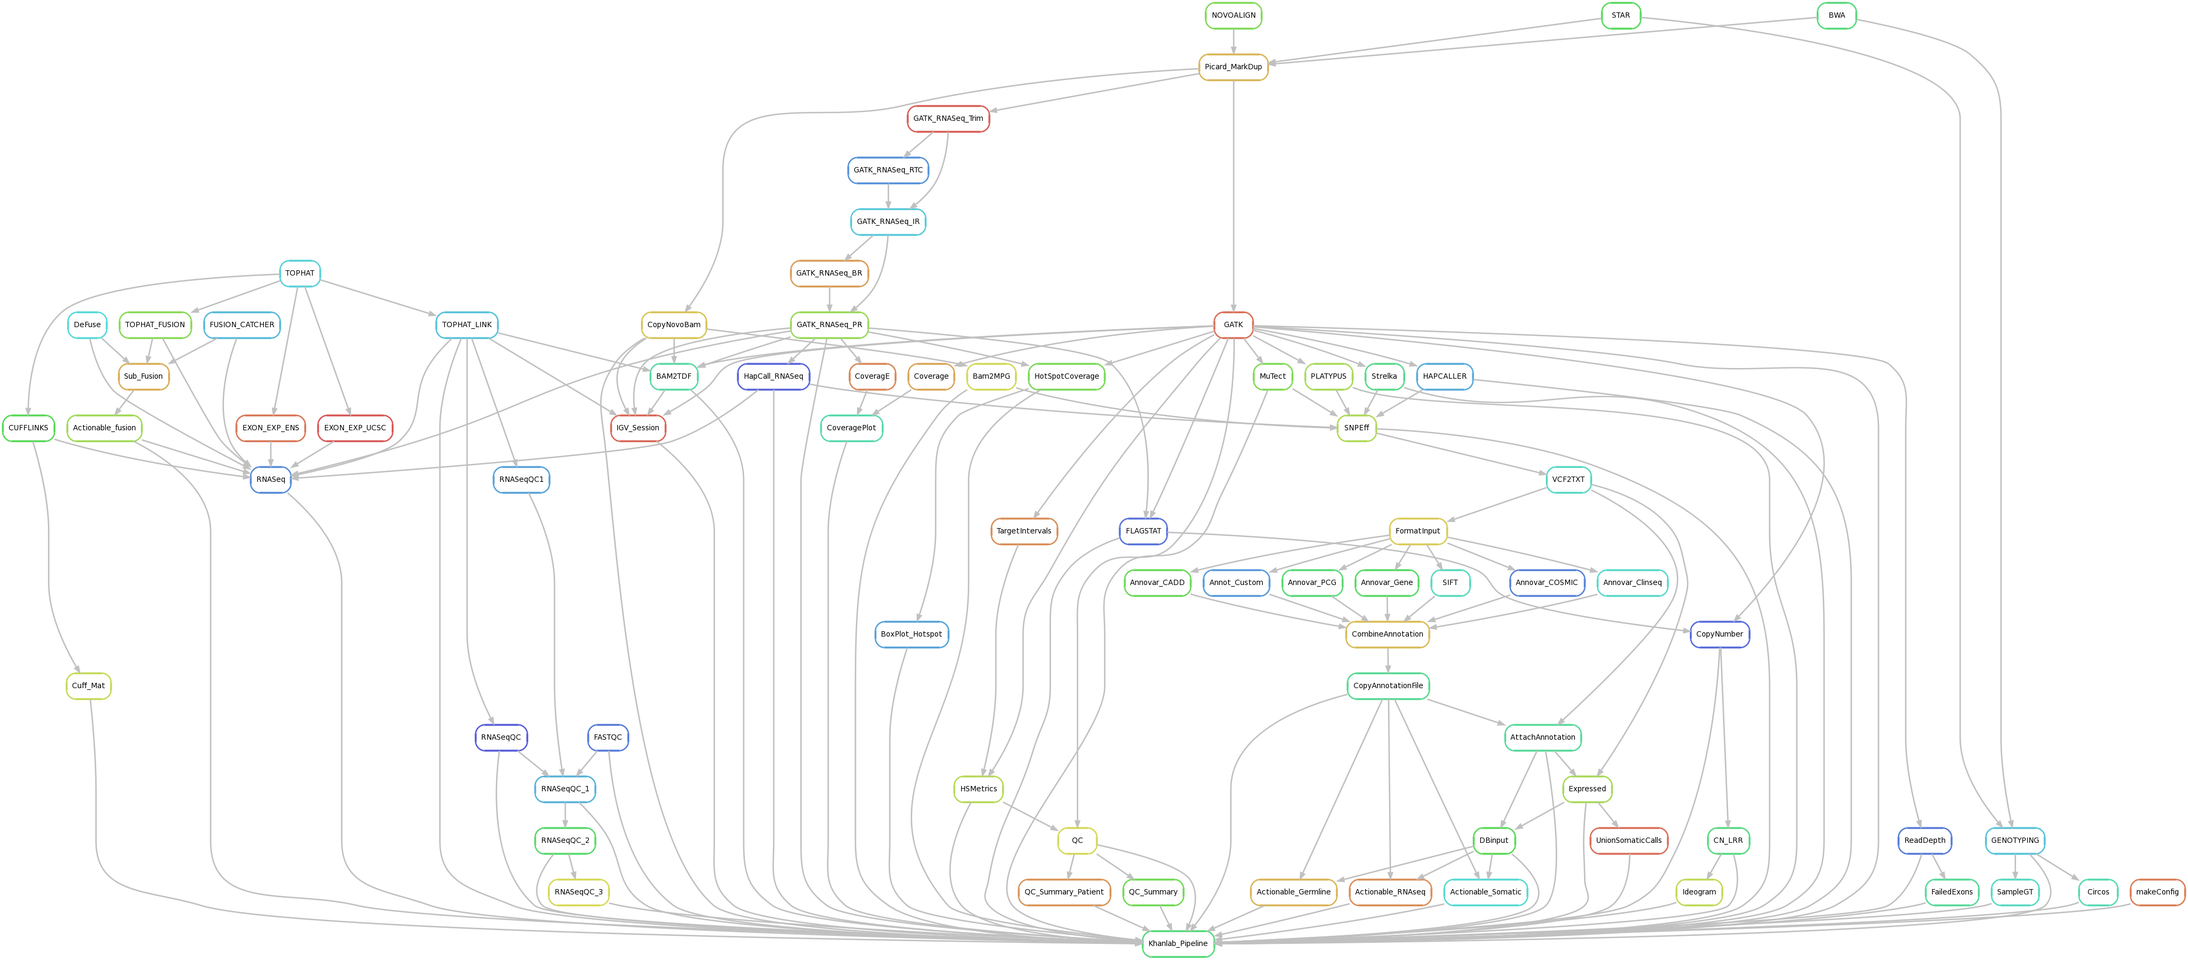
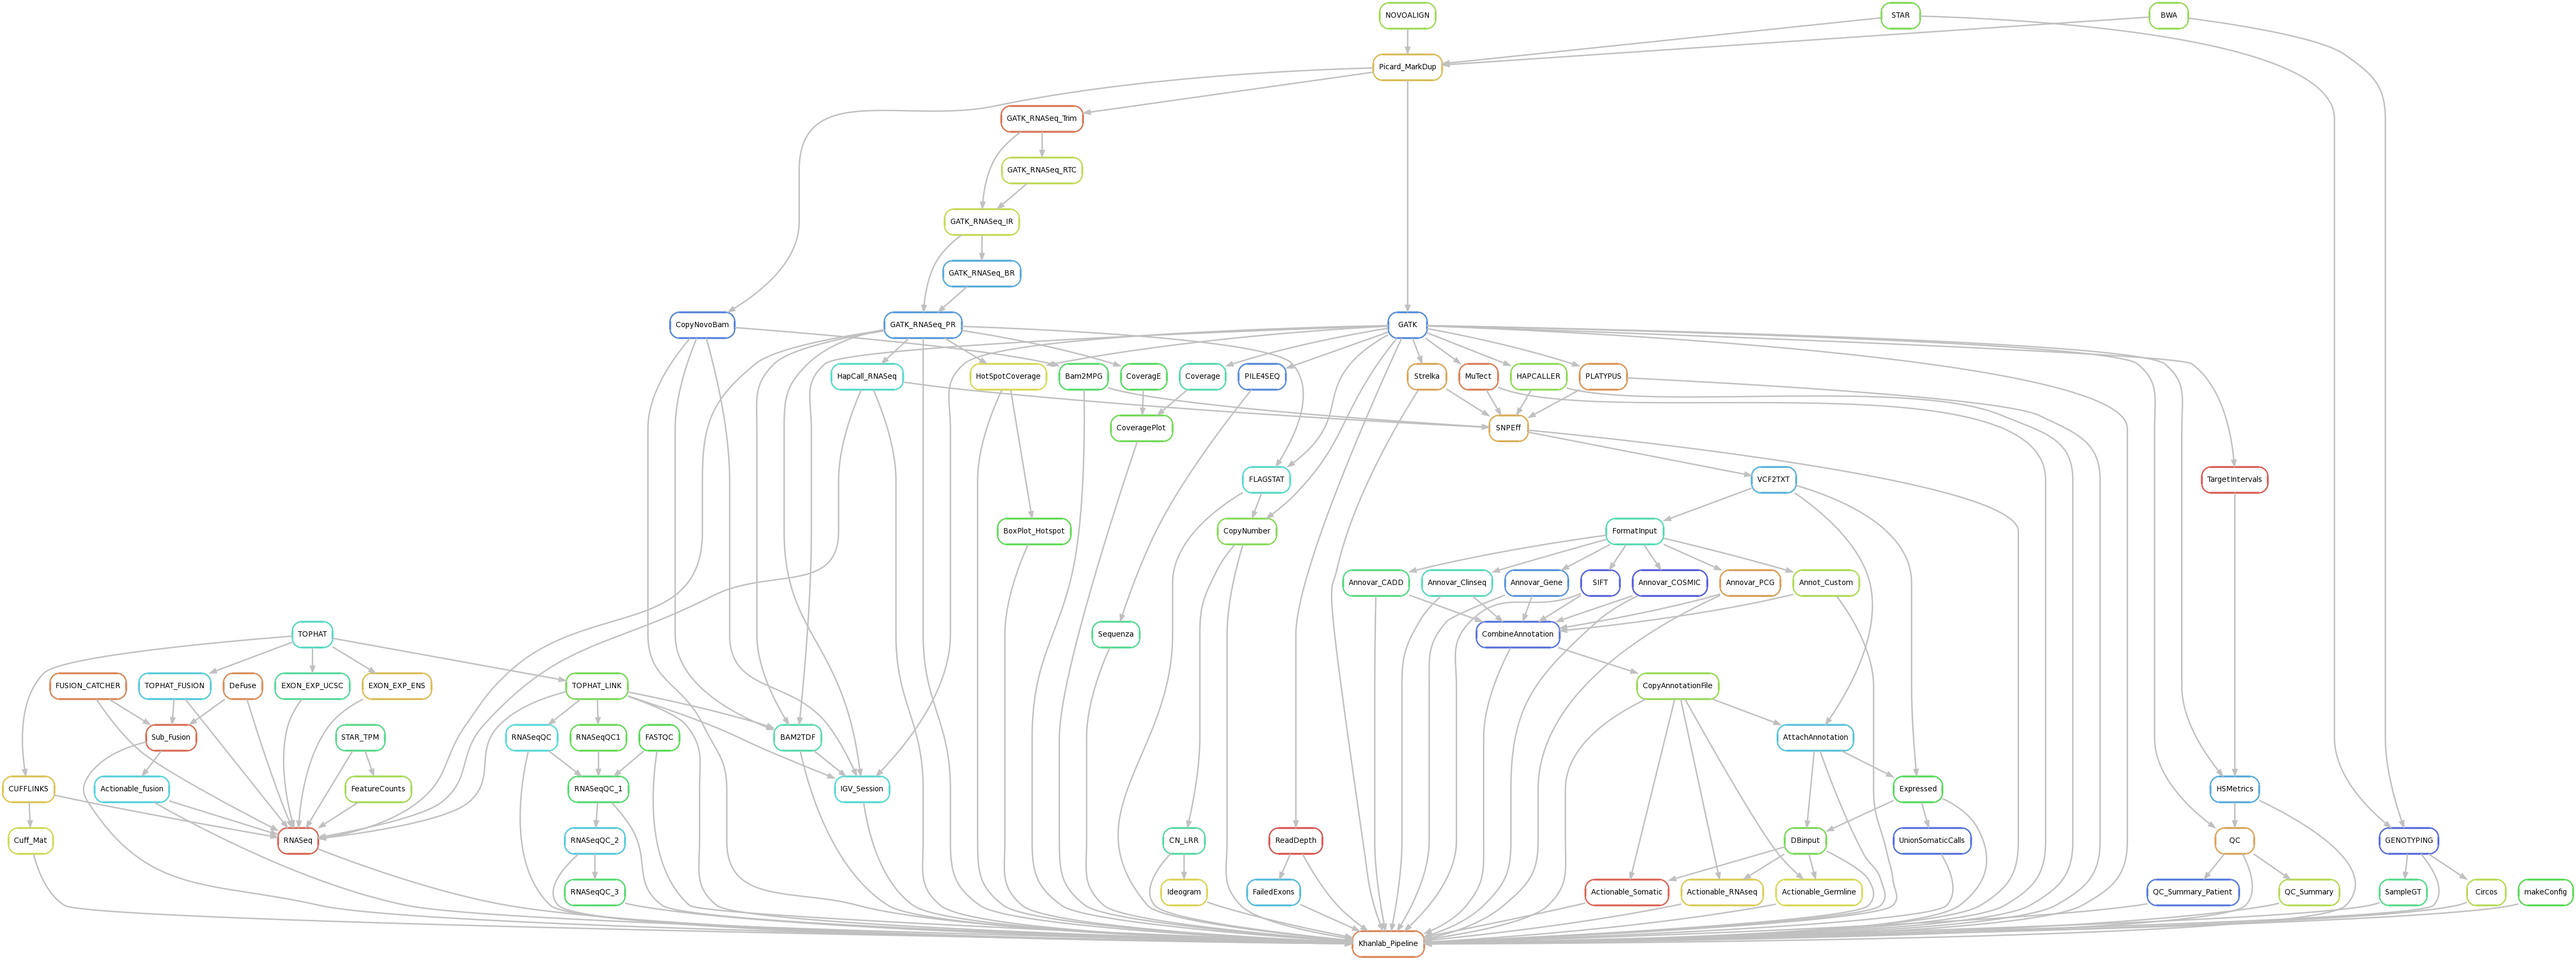
Updated README and Rulegraph to latest

diff --git a/README.md b/README.md
@@ -15,6 +15,17 @@ This pipeline is available on NIH biowulf cluster, contact me if you would like 
 [gnu parallel](http://www.gnu.org/software/parallel/)  
 SLURM or PBS for resource management  
 Bioinformatics Tools Listed in [config files](config/config_common_biowulf.json)  
+### Following R Packages
+- [OmicCircos](https://www.bioconductor.org/packages/release/bioc/html/OmicCircos.html)
+- [RColorBrewer](https://cran.r-project.org/web/packages/RColorBrewer/index.html)
+- [Rsubread](https://bioconductor.org/packages/release/bioc/html/Rsubread.html)
+- [edgeR](http://bioconductor.org/packages/release/bioc/html/edgeR.html)
+- [limma](http://bioconductor.org/packages/release/bioc/html/limma.html)
+- [optparse](https://cran.r-project.org/web/packages/optparse/index.html)
+- [pracma](https://cran.r-project.org/web/packages/pracma/index.html)
+- [sequenza](https://cran.r-project.org/web/packages/sequenza/index.html)
+- [stats](https://stat.ethz.ch/R-manual/R-devel/library/stats/html/00Index.html)
+- [stringr](https://cran.r-project.org/web/packages/stringr/vignettes/stringr.html) 
 
 ## Conventions
 
@@ -32,6 +43,7 @@ Bioinformatics Tools Listed in [config files](config/config_common_biowulf.json)
 - Create input format for oncogenomics database (Patient Level)
 - Make Actionable Classification for Germline and Somatic Mutations 
 - Copy number based on the simple T/N LogRatio (N cov >=30), Corrected for Total # Reads
+- Copy number, tumor purity using sequenza 
 - LRR adjusted to center. 
 
 ### RNASeq:
@@ -40,6 +52,7 @@ Bioinformatics Tools Listed in [config files](config/config_common_biowulf.json)
 - Broad Standard Practices on STAR bam
 - fusion-catcher, tophat-fusion, deFuse
 - Cufflinks (ENS and UCSC)
+- Rsubread TPM (ENS, UCSC), Gene, Transcript and Exon Level
 - In-house Exon Expression (ENS and UCSC)
 - Haplotype Caller
 - snpEff, Annovar, SIFT, pph2, Custom Annotation
@@ -56,9 +69,6 @@ Rulegraph
 
 
 ![alt tag](Rulegraph.png)
-
-
-
 
 
 DAG for example Sample
